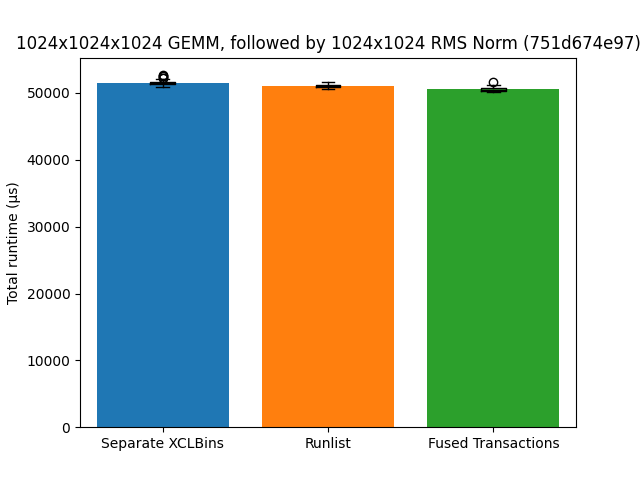
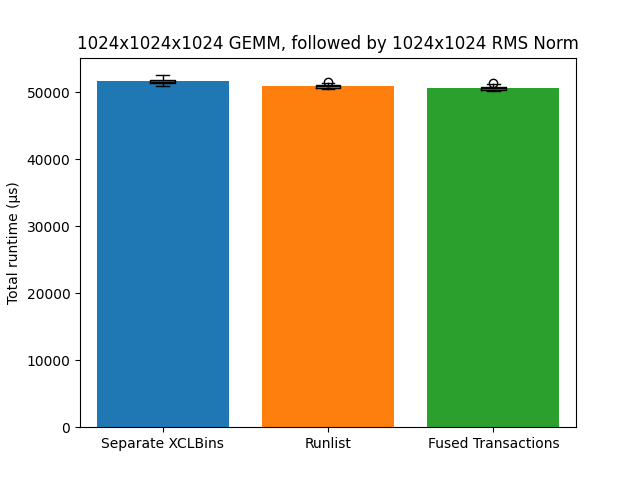
add results

Changed region(s): [[0.0312, 0.0625, 1.0, 0.1875], [0.75, 0.1562, 0.8125, 0.2188], [0.5, 0.1562, 0.5312, 0.1875]]

diff --git a/programming_examples/reconfig/eval.py b/programming_examples/reconfig/eval.py
@@ -64,6 +64,6 @@ for zoomed_out in [True, False]:
     ax.set_xticks(xs)
     ax.set_xticklabels([bar["label"] for bar in bars])
     ax.set_ylabel("Total runtime (μs)")
-    ax.set_title("1024x1024x1024 GEMM, followed by 1024x1024 RMS Norm (952fac54e1)")
+    ax.set_title("1024x1024x1024 GEMM, followed by 1024x1024 RMS Norm")
 
     plt.savefig("eval.png" if not zoomed_out else "eval_zoomed_out.png")
